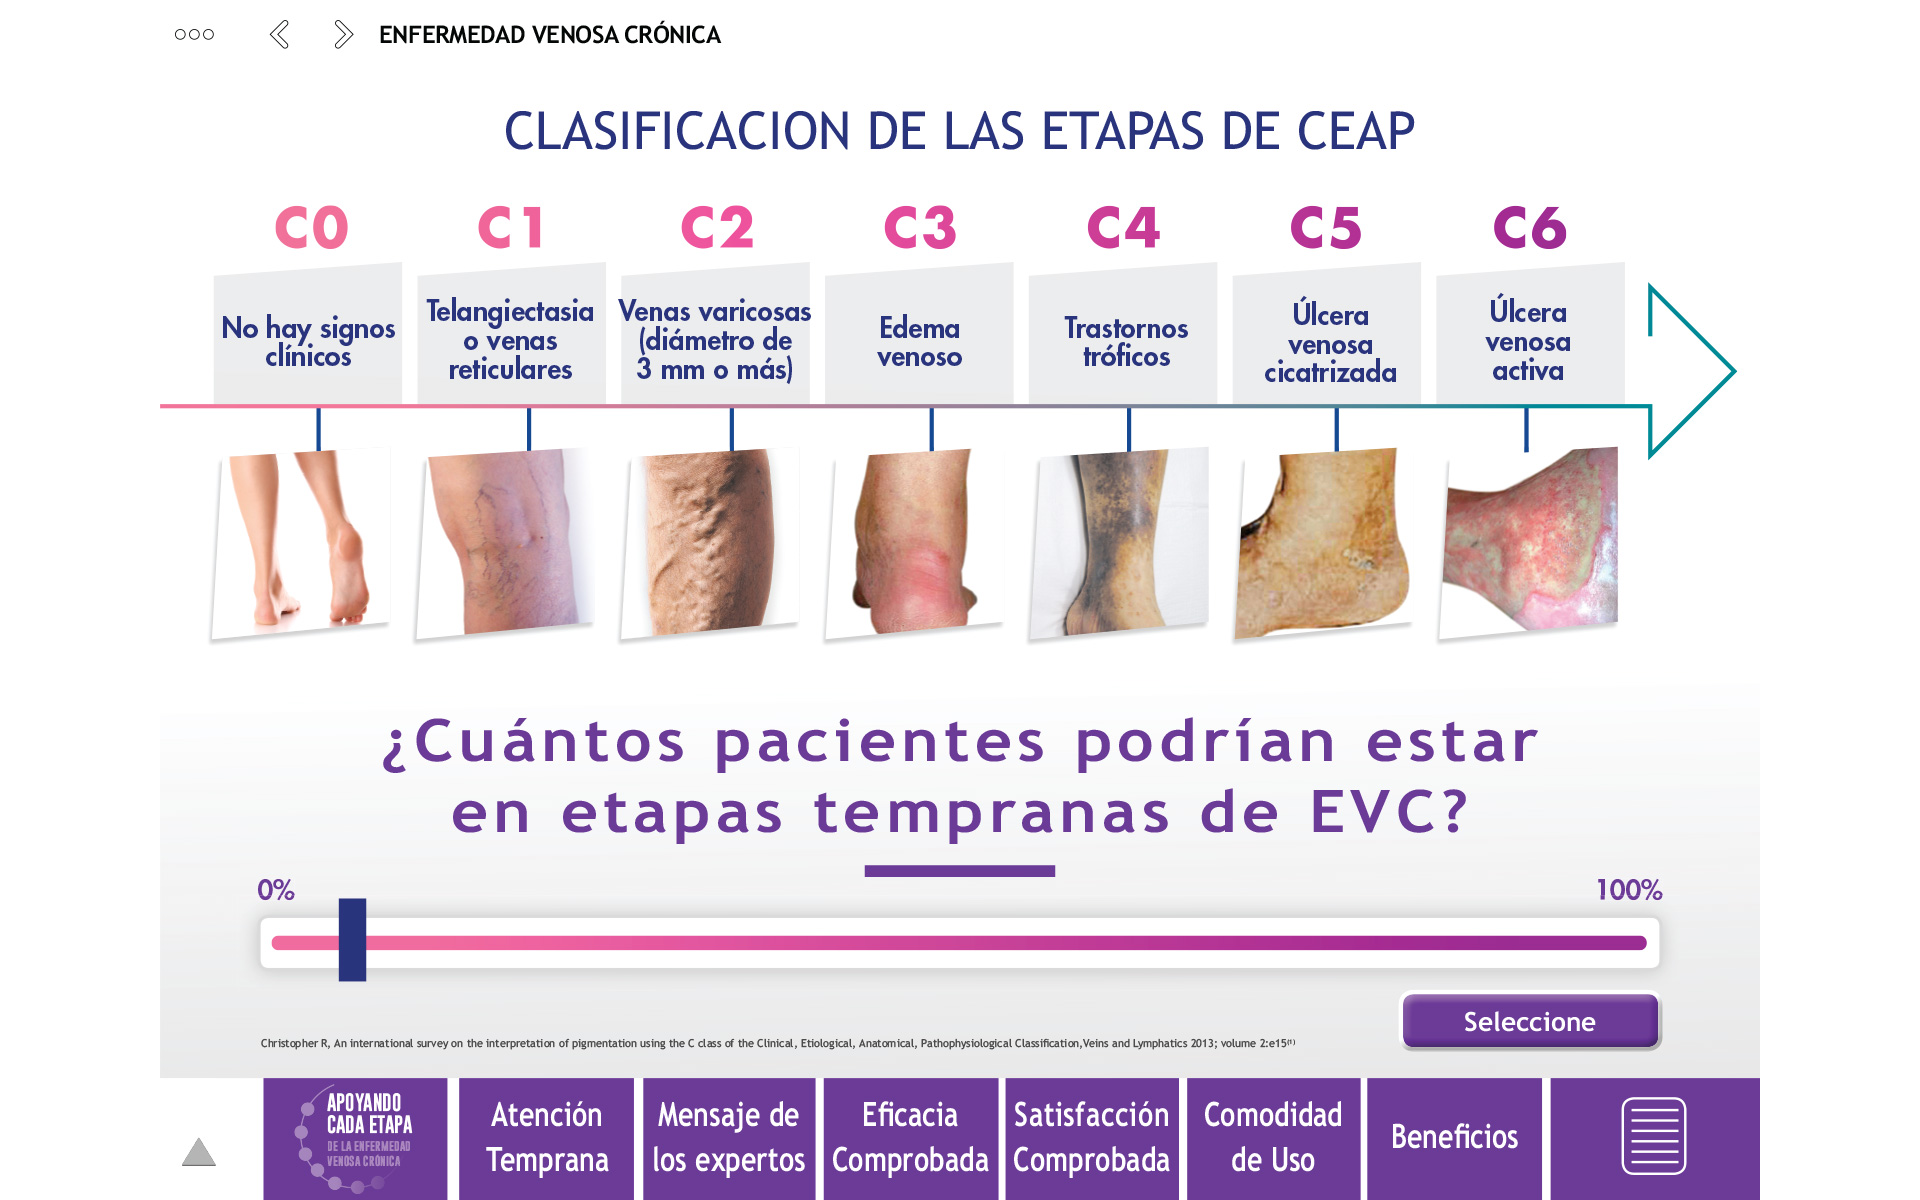
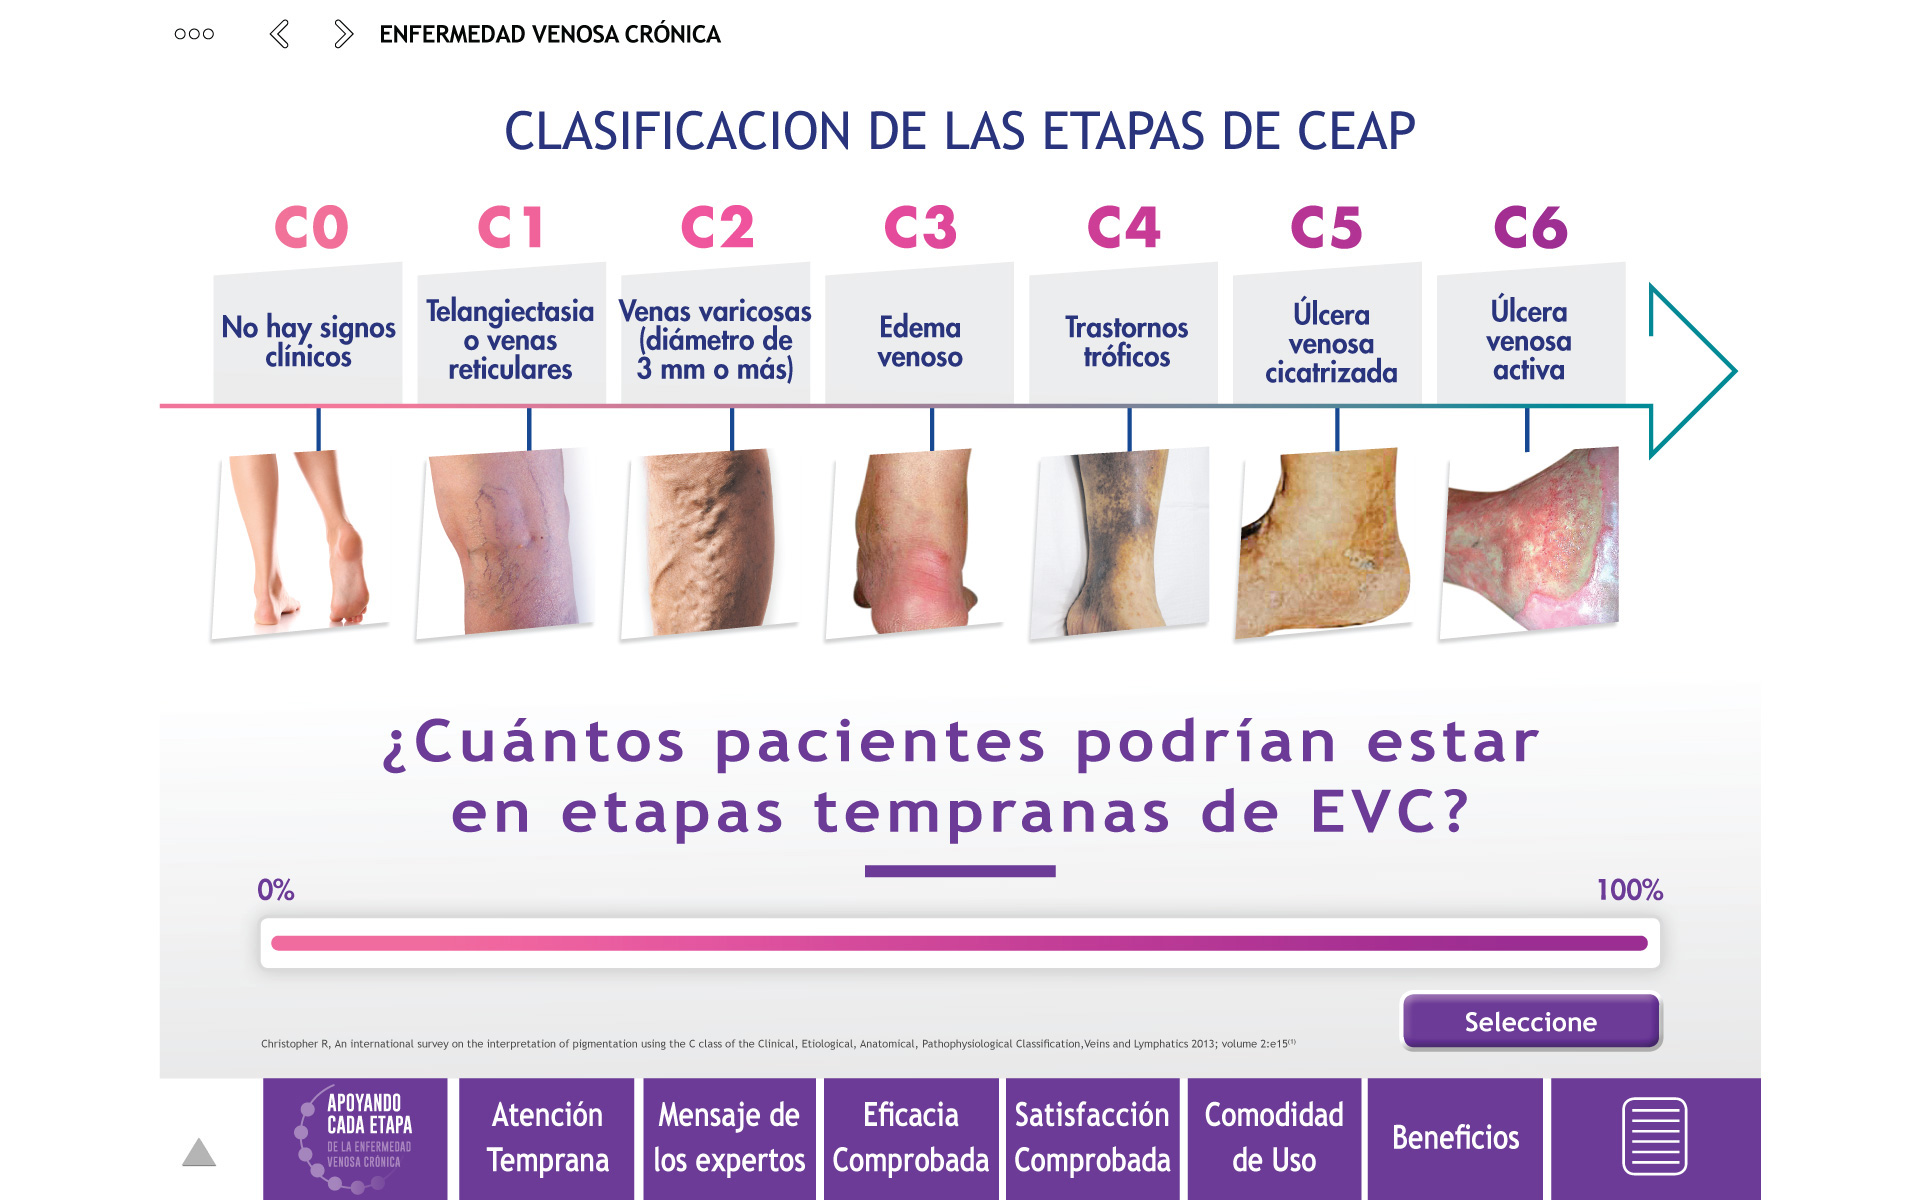
Flebodia

diff --git a/index.html b/index.html
@@ -22,53 +22,60 @@ width=device-width, height=device-height, target-densitydpi=device-dpi" />
 	<div class="owl-carousel">
     
 	<div class="item" id="s-0" >
-		<div class="clearfix icon-control"><div class="control"><i  class="fa circle" data-link="1"></i>&nbsp;&nbsp;&nbsp;&nbsp;&nbsp;&nbsp;&nbsp;&nbsp;<i class="fa circle " data-link="17"></i>&nbsp;&nbsp;&nbsp;<i class="fa circle " data-link="1"></i></div>
+		<div class="clearfix icon-control"><div class="control"><i  class="fa circle" data-link="1"></i>&nbsp;<i class="fa circle " data-link="17"></i>&nbsp;<i class="fa circle " data-link="1"></i></div>
 		</div>
 		</div>
 	<div class="item" id="s-1" >
-		<div class="clearfix icon-control"><div class="control"><i  class="fa circle" data-link="1"></i>&nbsp;&nbsp;&nbsp;&nbsp;&nbsp;&nbsp;&nbsp;&nbsp;<i class="fa circle " data-link="0"></i>&nbsp;&nbsp;&nbsp;<i class="fa circle " data-link="2"></i></div>
-		</div>
-		<div class="menu">
-		<div class="menu-link link" data-link=""></div>
-		<div class="menu-link link" data-link=""></div>
-		<div class="menu-link link m3" data-link=""></div>
-		<div class="menu-link link m4" data-link=""></div>
-		<div class="menu-link link" data-link=""></div>
-		<div class="menu-link link m4" data-link=""></div>
-		<div class="menu-link link m4" data-link=""></div>
-		<div class="menu-link link m8" data-link=""></div>
+		<div class="clearfix icon-control"><div class="control"><i  class="fa circle" data-link="1"></i>&nbsp;<i class="fa circle " data-link="0"></i>&nbsp;<i class="fa circle " data-link="2"></i></div>
 		</div>
 		</div>
 	<div class="item" id="s-2" >
-		<div class="clearfix icon-control"><div class="control"><i  class="fa circle" data-link="1"></i>&nbsp;&nbsp;&nbsp;&nbsp;&nbsp;&nbsp;&nbsp;&nbsp;<i class="fa circle " data-link="1"></i>&nbsp;&nbsp;&nbsp;<i class="fa circle " data-link="3"></i></div>
+		<div class="clearfix icon-control"><div class="control"><i  class="fa circle" data-link="1"></i>&nbsp;<i class="fa circle " data-link="1"></i>&nbsp;<i class="fa circle " data-link="3"></i></div>
 		</div>
 		</div>
 	<div class="item" id="s-3" >
-		<div class="clearfix icon-control"><div class="control"><i  class="fa circle" data-link="1"></i>&nbsp;&nbsp;&nbsp;&nbsp;&nbsp;&nbsp;&nbsp;&nbsp;<i class="fa circle " data-link="2"></i>&nbsp;&nbsp;&nbsp;<i class="fa circle " data-link="4"></i></div>
+		<div class="clearfix icon-control"><div class="control"><i  class="fa circle" data-link="1"></i>&nbsp;<i class="fa circle " data-link="2"></i>&nbsp;<i class="fa circle " data-link="4"></i></div>
 		</div>
+		<div class="paciente check-1" >&nbsp;</div>
+		<div class="paciente check-2" >&nbsp;</div>
+		<div class="paciente check-3" >&nbsp;</div>
+		<div class="paciente check-4" >&nbsp;</div>
+		<div class="paciente check-5" >&nbsp;</div>
+		<div class="link siguiente boton-paciente" data-link="4">&nbsp;</div>
+		
+		
 		</div>
     <!-- MENÚ PRINCIPAL 0 -->
 	<div class="item" id="s-4" >
-		<div class="clearfix icon-control"><div class="control"><i  class="fa circle" data-link="1"></i>&nbsp;&nbsp;&nbsp;&nbsp;&nbsp;&nbsp;&nbsp;&nbsp;<i class="fa circle " data-link="3"></i>&nbsp;&nbsp;&nbsp;<i class="fa circle " data-link="5"></i></div>
+		<div class="clearfix icon-control"><div class="control"><i  class="fa circle" data-link="1"></i>&nbsp;<i class="fa circle " data-link="3"></i>&nbsp;<i class="fa circle " data-link="5"></i></div>
 		</div>
+		<div class="paciente chek-1" >&nbsp;</div>
+		<div class="paciente chek-2" >&nbsp;</div>
+		<div class="paciente chek-3" >&nbsp;</div>
+		<div class="paciente chek-4" >&nbsp;</div>
+		<div class="paciente chek-5" >&nbsp;</div>
+		<div class="link siguiente boton-sintomas" data-link="5">&nbsp;</div>
+		
 	</div>
 	<!-- CURACION 1 -->
 	<div class="item" id="s-5" >
         
-		<div class="clearfix icon-control"><div class="control"><i  class="fa circle" data-link="1"></i>&nbsp;&nbsp;&nbsp;&nbsp;&nbsp;&nbsp;&nbsp;&nbsp;<i class="fa circle " data-link="4"></i>&nbsp;&nbsp;&nbsp;<i class="fa circle " data-link="6"></i></div>
+		<div class="clearfix icon-control"><div class="control"><i  class="fa circle" data-link="1"></i>&nbsp;<i class="fa circle " data-link="4"></i>&nbsp;<i class="fa circle " data-link="6"></i></div>
 		</div>
+		<div class="indicador">&nbsp;</div>
+		<div class="link siguiente boton-etapas" data-link="6">&nbsp;</div>
        
 	</div>
 	
 	<!-- MECANISMOS 2 -->
 	<div class="item" id="s-6">
-		<div class="clearfix icon-control"><div class="control"><i  class="fa circle" data-link="1"></i>&nbsp;&nbsp;&nbsp;&nbsp;&nbsp;&nbsp;&nbsp;&nbsp;<i class="fa circle " data-link="5"></i>&nbsp;&nbsp;&nbsp;<i class="fa circle " data-link="7"></i></div>
+		<div class="clearfix icon-control"><div class="control"><i  class="fa circle" data-link="1"></i>&nbsp;<i class="fa circle " data-link="5"></i>&nbsp;<i class="fa circle " data-link="7"></i></div>
 		</div>
 	</div>
 
     <!-- MANEJO 3 -->
     <div class="item" id="s-7">
-		<div class="clearfix icon-control"><div class="control"><i  class="fa circle" data-link="1"></i>&nbsp;&nbsp;&nbsp;&nbsp;&nbsp;&nbsp;&nbsp;&nbsp;<i class="fa circle " data-link="6"></i>&nbsp;&nbsp;&nbsp;<i class="fa circle " data-link="8"></i></div>
+		<div class="clearfix icon-control"><div class="control"><i  class="fa circle" data-link="1"></i>&nbsp;<i class="fa circle " data-link="6"></i>&nbsp;<i class="fa circle " data-link="8"></i></div>
 		</div>
 		
 		
@@ -77,20 +84,20 @@ width=device-width, height=device-height, target-densitydpi=device-dpi" />
 
     <!-- MEMBRANA 4 -->
     <div class="item" id="s-8">
-        <div class="clearfix icon-control"><div class="control"><i  class="fa circle" data-link="1"></i>&nbsp;&nbsp;&nbsp;&nbsp;&nbsp;&nbsp;&nbsp;&nbsp;<i class="fa circle " data-link="7"></i>&nbsp;&nbsp;&nbsp;<i class="fa circle " data-link="9"></i></div>
+        <div class="clearfix icon-control"><div class="control"><i  class="fa circle" data-link="1"></i>&nbsp;<i class="fa circle " data-link="7"></i>&nbsp;<i class="fa circle " data-link="9"></i></div>
 		</div>
         
 	</div>
 	
     <!-- MEMBRANA 4 -->
     <div class="item" id="s-9">
-        <div class="clearfix icon-control"><div class="control"><i  class="fa circle" data-link="1"></i>&nbsp;&nbsp;&nbsp;&nbsp;&nbsp;&nbsp;&nbsp;&nbsp;<i class="fa circle " data-link="8"></i>&nbsp;&nbsp;&nbsp;<i class="fa circle " data-link="10"></i></div>
+        <div class="clearfix icon-control"><div class="control"><i  class="fa circle" data-link="1"></i>&nbsp;<i class="fa circle " data-link="8"></i>&nbsp;<i class="fa circle " data-link="10"></i></div>
 		</div>
         
 	</div>	
     <!-- MEMBRANA 4 -->
     <div class="item" id="s-10">
-        <div class="clearfix icon-control"><div class="control"><i  class="fa circle" data-link="1"></i>&nbsp;&nbsp;&nbsp;&nbsp;&nbsp;&nbsp;&nbsp;&nbsp;<i class="fa circle " data-link="9"></i>&nbsp;&nbsp;&nbsp;<i class="fa circle " data-link="11"></i></div>
+        <div class="clearfix icon-control"><div class="control"><i  class="fa circle" data-link="1"></i>&nbsp;<i class="fa circle " data-link="9"></i>&nbsp;<i class="fa circle " data-link="11"></i></div>
 		</div>
 		
 		
@@ -98,38 +105,50 @@ width=device-width, height=device-height, target-densitydpi=device-dpi" />
 	</div>
     <!-- MEMBRANA 4 -->
     <div class="item" id="s-11">
-        <div class="clearfix icon-control"><div class="control"><i  class="fa circle" data-link="1"></i>&nbsp;&nbsp;&nbsp;&nbsp;&nbsp;&nbsp;&nbsp;&nbsp;<i class="fa circle " data-link="10"></i>&nbsp;&nbsp;&nbsp;<i class="fa circle " data-link="12"></i></div>
+        <div class="clearfix icon-control"><div class="control"><i  class="fa circle" data-link="1"></i>&nbsp;<i class="fa circle " data-link="10"></i>&nbsp;<i class="fa circle " data-link="12"></i></div>
 		</div>
 	</div>	
     <!-- MEMBRANA 4 -->
     <div class="item" id="s-12">
-        <div class="clearfix icon-control"><div class="control"><i  class="fa circle" data-link="1"></i>&nbsp;&nbsp;&nbsp;&nbsp;&nbsp;&nbsp;&nbsp;&nbsp;<i class="fa circle " data-link="11"></i>&nbsp;&nbsp;&nbsp;<i class="fa circle " data-link="13"></i></div>
+        <div class="clearfix icon-control"><div class="control"><i  class="fa circle" data-link="1"></i>&nbsp;<i class="fa circle " data-link="11"></i>&nbsp;<i class="fa circle " data-link="13"></i></div>
 		</div>
 	</div>
     <div class="item" id="s-13">
-        <div class="clearfix icon-control"><div class="control"><i  class="fa circle" data-link="1"></i>&nbsp;&nbsp;&nbsp;&nbsp;&nbsp;&nbsp;&nbsp;&nbsp;<i class="fa circle " data-link="12"></i>&nbsp;&nbsp;&nbsp;<i class="fa circle " data-link="14"></i></div>
+        <div class="clearfix icon-control"><div class="control"><i  class="fa circle" data-link="1"></i>&nbsp;<i class="fa circle " data-link="12"></i>&nbsp;<i class="fa circle " data-link="14"></i></div>
 		</div>
 	</div>
     <div class="item" id="s-14">
-        <div class="clearfix icon-control"><div class="control"><i  class="fa circle" data-link="1"></i>&nbsp;&nbsp;&nbsp;&nbsp;&nbsp;&nbsp;&nbsp;&nbsp;<i class="fa circle " data-link="13"></i>&nbsp;&nbsp;&nbsp;<i class="fa circle " data-link="15"></i></div>
+        <div class="clearfix icon-control"><div class="control"><i  class="fa circle" data-link="1"></i>&nbsp;<i class="fa circle " data-link="13"></i>&nbsp;<i class="fa circle " data-link="15"></i></div>
 		</div>
 	</div>
     <div class="item" id="s-15">
-        <div class="clearfix icon-control"><div class="control"><i  class="fa circle" data-link="1"></i>&nbsp;&nbsp;&nbsp;&nbsp;&nbsp;&nbsp;&nbsp;&nbsp;<i class="fa circle " data-link="14"></i>&nbsp;&nbsp;&nbsp;<i class="fa circle " data-link="16"></i></div>
+        <div class="clearfix icon-control"><div class="control"><i  class="fa circle" data-link="1"></i>&nbsp;<i class="fa circle " data-link="14"></i>&nbsp;<i class="fa circle " data-link="16"></i></div>
 		</div>
 	</div>
     <div class="item" id="s-16">
-        <div class="clearfix icon-control"><div class="control"><i  class="fa circle" data-link="1"></i>&nbsp;&nbsp;&nbsp;&nbsp;&nbsp;&nbsp;&nbsp;&nbsp;<i class="fa circle " data-link="15"></i>&nbsp;&nbsp;&nbsp;<i class="fa circle " data-link="17"></i></div>
+        <div class="clearfix icon-control"><div class="control"><i  class="fa circle" data-link="1"></i>&nbsp;<i class="fa circle " data-link="15"></i>&nbsp;<i class="fa circle " data-link="17"></i></div>
 		</div>
 	</div>
     <div class="item" id="s-17">
-        <div class="clearfix icon-control"><div class="control"><i  class="fa circle" data-link="1"></i>&nbsp;&nbsp;&nbsp;&nbsp;&nbsp;&nbsp;&nbsp;&nbsp;<i class="fa circle " data-link="16"></i>&nbsp;&nbsp;&nbsp;<i class="fa circle " data-link="0"></i></div>
+        <div class="clearfix icon-control"><div class="control"><i  class="fa circle" data-link="1"></i>&nbsp;<i class="fa circle " data-link="16"></i>&nbsp;<i class="fa circle " data-link="0"></i></div>
 		</div>
 	</div>
 		
     </div>
+	
+	
+		<div class="menu">
+		<div class="menu-link link" data-link="1"></div>
+		<div class="menu-link link" data-link="2"></div>
+		<div class="menu-link link m3" data-link="7"></div>
+		<div class="menu-link link m4" data-link="9"></div>
+		<div class="menu-link link" data-link="12"></div>
+		<div class="menu-link link m4" data-link="13"></div>
+		<div class="menu-link link m4" data-link="14"></div>
+		<div class="menu-link link m8" data-link="16"></div>
+		</div>
 
-    <div class="link home" data-link="4">&nbsp;</div>
+    
     <div class="vertical">
         <img src="images/screen-rotation-button.png" alt="Mebo">
         <p>&nbsp;</p>
@@ -142,6 +161,7 @@ width=device-width, height=device-height, target-densitydpi=device-dpi" />
 <script src="js/owl.carousel.js" type="text/javascript"></script>
 	
 	<script type="text/javascript">
+		var pacientes=0;
 	
 	$( document ).ready(function() {
         
@@ -181,6 +201,23 @@ width=device-width, height=device-height, target-densitydpi=device-dpi" />
 		$('#btn-salir').click(function() {
 			$('.owl-carousel').trigger('to.owl.carousel', 0);
 		});
+		
+		$('.paciente').click(function() {
+			
+			if($(this).hasClass('select')){
+				$(this).removeClass('select')
+				pacientes=pacientes-1;	
+			}else{
+				$(this).addClass('select')
+				pacientes=pacientes+1;
+			}
+			
+			var pos=(pacientes*10)*0.7 +14;
+			$('.indicador').css('left',pos+'%');
+			
+		});
+		
+		
 		 window.onresize = function(event) {
             checkOrientation();
         };

diff --git a/css/estilo.css b/css/estilo.css
@@ -72,7 +72,7 @@ body{
 .fa.circle
   {
     border-radius: 50%;
-    width: 50px;
+    width: 30%;
     height: 50px;
 	background-color: rgba(0,0,0,0.23);
   }
@@ -344,16 +344,17 @@ img.home{
 .menu{
 	position: absolute;
 	bottom: 0;
-	right: 160px;
-	width: 1496px;
+	right: 8.3%;
+	width: 78%;
 	height: 120px;
+	z-index: 999;
 }
 .menu-link{
 	width: 12.7%;
 	height: 120px;
 	float: left;
 
-	background-color: rgba(0,0,0,0.23);
+
 }
 .menu-link.m2{
 /*	width: 177px;*/
@@ -376,6 +377,98 @@ img.home{
     right: 250px;
     top: 730px;
 }
+
+.paciente {
+    position: absolute;
+    width: 3.5%;
+    height: 5%;
+
+    top: 74%;
+}
+.paciente.check-1 {
+    left: 13%;
+}
+.paciente.check-2 {
+    left: 28.3%;
+}
+.paciente.check-3 {
+    left: 44.2%;
+}
+.paciente.check-4 {
+    left: 60.3%;
+}
+.paciente.check-5 {
+    left: 79.5%;
+}
+.link.siguiente.boton-paciente {
+    position: absolute;
+    top: 80.5%;
+
+    width: 15%;
+    height: 6%;
+    left: 74%;
+}
+.paciente.chek-1 {
+    top: 37.2%;
+    left: 19.5%;
+}
+.paciente.chek-2 {
+    top: 37.2%;
+    left: 53%;
+}
+.paciente.chek-3 {
+    top: 53.5%;
+    left: 19.5%;
+}
+.paciente.chek-4 {
+    top: 53.5%;
+    left: 53%;
+}
+.paciente.chek-5 {
+    top: 70%;
+    left: 19.5%;
+}
+
+.link.siguiente.boton-sintomas {
+    position: absolute;
+    top: 69%;
+
+    width: 15%;
+    height: 6%;
+    left: 54%;
+}
+
+
+
+.indicador{
+	position: absolute;
+	left: 14%;
+	top: 75%;
+	width: 1.5%;
+	height: 7%;
+	max-height: 110px;
+	max-width: 35px;
+	background-image: url("../images/indicador.jpg");
+	background-size: cover;
+}
+
+
+.link.siguiente.boton-etapas {
+    position: absolute;
+    top: 82%;
+
+    width: 15%;
+    height: 6%;
+    left: 72%;
+}
+
+.paciente.select{
+	background-image: url("../images/ok.png");
+	background-size: contain;
+	background-repeat: no-repeat;
+	background-position: center;
+}
+
 /*
 @media (max-width: 2600px) and (max-height:1500px){
 	.wrapper{
